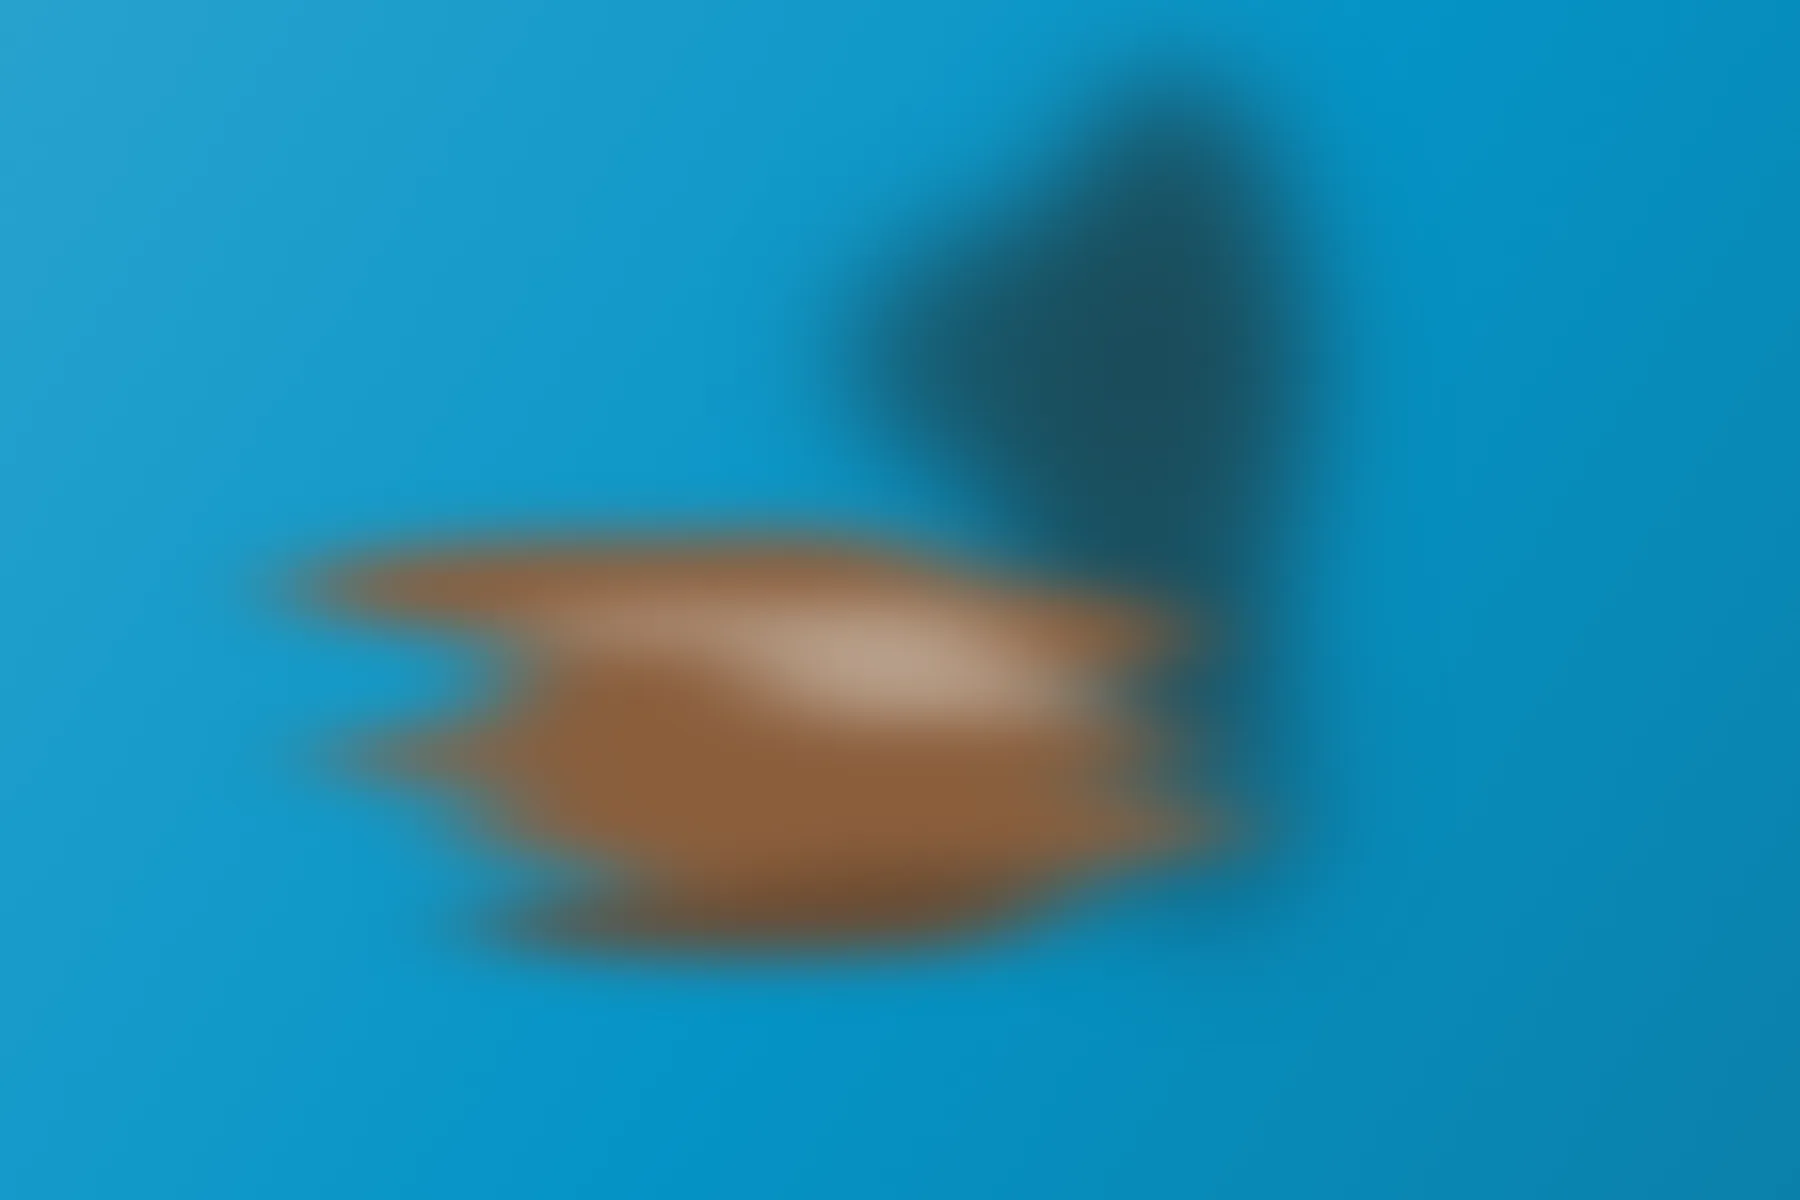
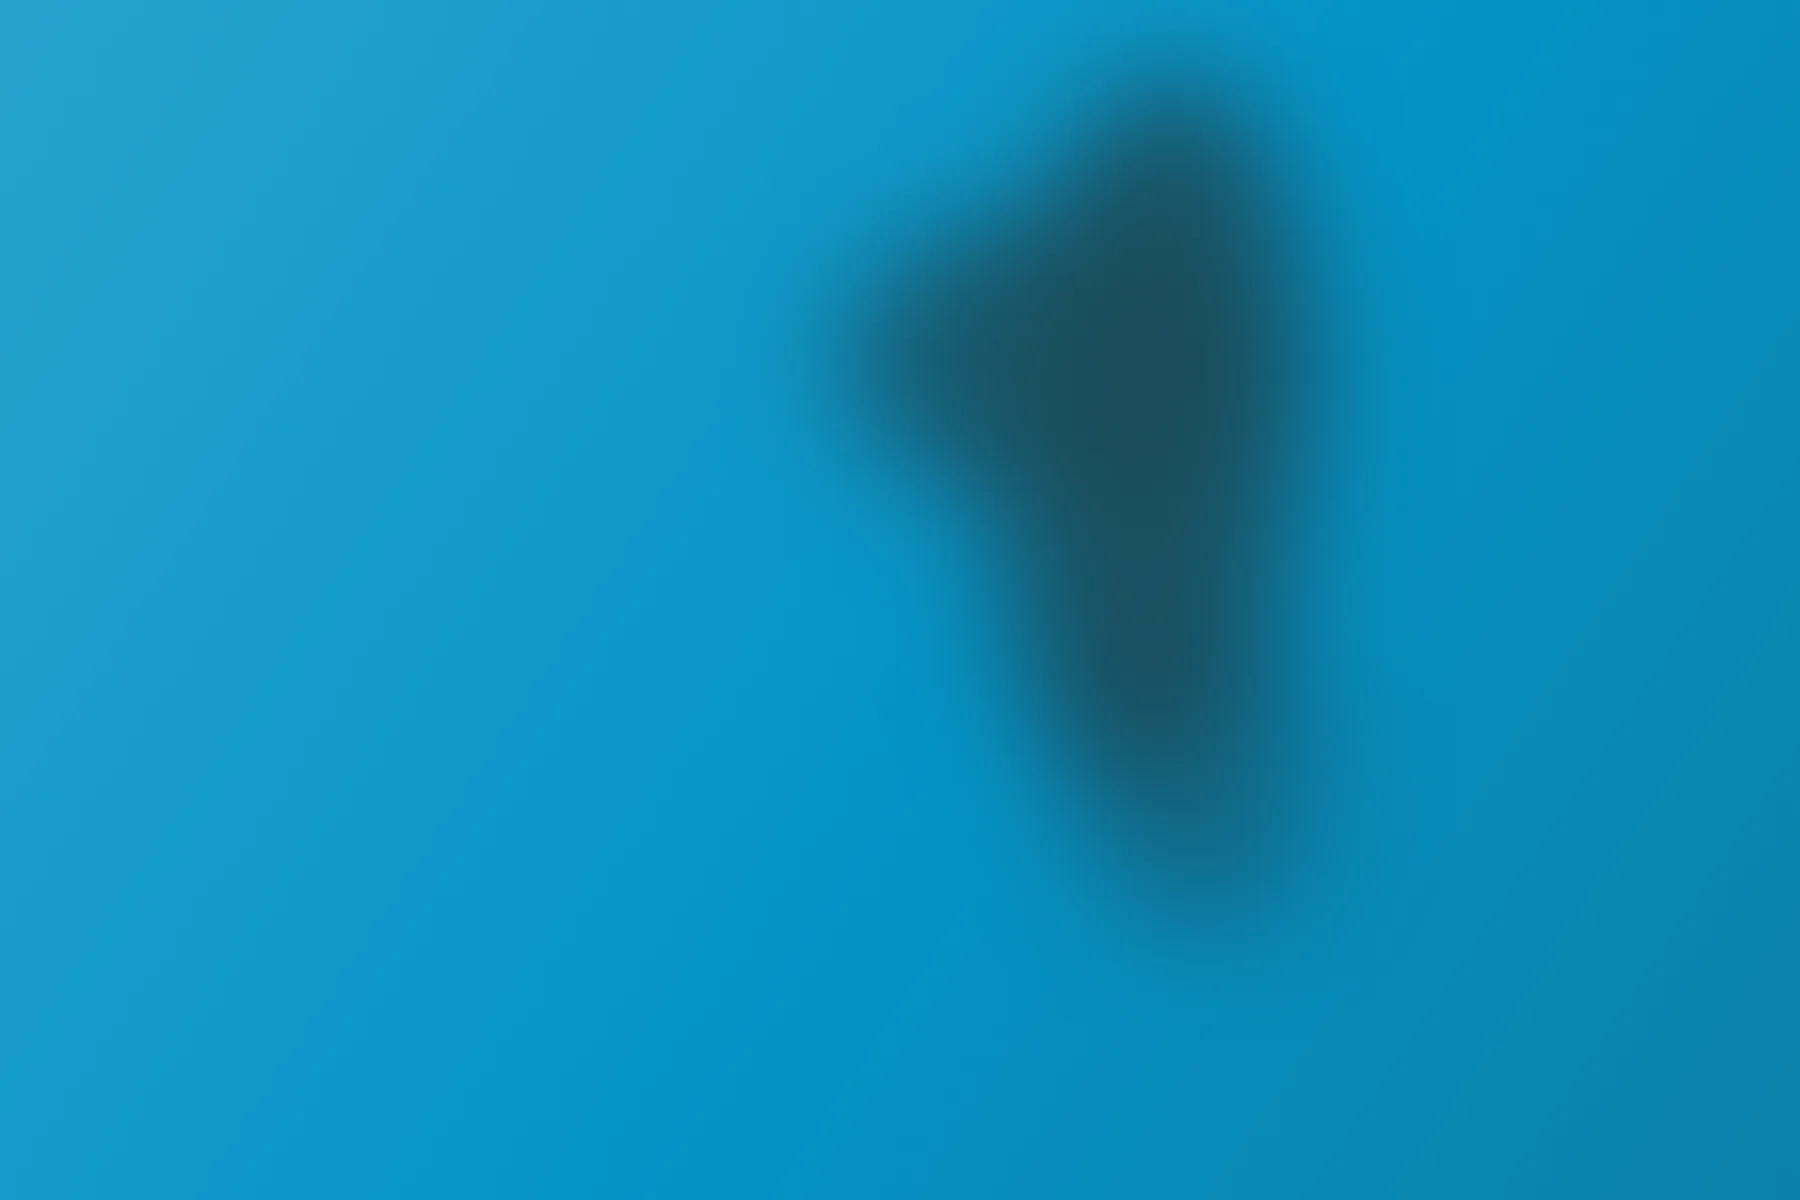
Touch fixes, "I'm Jack." hero, and a breathing backdrop
- Venture cards on touch (hover: none): description and detail both
  show, the detail in the accent; no sticky hover lift; the tap press is
  a quick 60ms sink (released at the normal 200ms). Desktop hover swap
  unchanged.
- Floating nav links are 44px tall tap targets.
- Tap feedback site-wide: no grey tap flash; links and buttons dim while
  pressed; an empty touchstart listener so iOS Safari applies :active.
- Reveals trigger when a chapter's top is 12% into the viewport
  (rootMargin), which also works for chapters taller than the screen,
  where a 12% ratio threshold could never be reached.
- Homepage: the hero reads "I'm Jack." (site.greeting) and the masthead
  drops the name there; other pages keep it.
- Backdrop split into a still base and the wood-brown mass, which slowly
  grows and shrinks (scale 0.86 to 1.14, 9s, GPU only: no repaints).
  Still under Reduce Motion.

Claude-Session: https://claude.ai/code/session_01LkBRp1ZorhmmMWd9eKdZJs

Changed region(s): [[0.1244, 0.4008, 0.7156, 0.8325]]

diff --git a/app/globals.css b/app/globals.css
@@ -54,6 +54,14 @@
     background-color: rgb(42 31 22 / 0.22);
   }
 
+  /* Taps: no grey flash from the browser; instead every link and button answers with a brief dim. */
+  :where(a, button, select, summary, label, input) {
+    -webkit-tap-highlight-color: transparent;
+  }
+  :where(a, button):active {
+    opacity: 0.7;
+  }
+
   /* White on the sky, ink on white surfaces. */
   :focus-visible {
     outline: 2px solid currentColor;
@@ -71,10 +79,12 @@
   }
 
   /*
-   * The backdrop, fixed behind everything: a blurred, motion-smeared wood-brown shape and a dark
-   * figure on the sky (public/backdrop.webp), seen through reeded glass. The flutes are CSS so they
-   * stay crisp at any pixel density: each 14px flute lit on its left edge and shaded on its right.
-   * Sized to the large viewport so mobile browser bars never make it jump.
+   * The backdrop, fixed behind everything, in three layers:
+   *   the still sky and dark figure (public/backdrop.webp),
+   *   the wood-brown mass, slowly growing and shrinking (public/backdrop-warm.webp),
+   *   reeded glass over both: 14px flutes, lit on the left edge, shaded on the right (CSS, crisp at any density).
+   * Sized to the large viewport so mobile browser bars never make it jump. The breathing animates
+   * only the `scale` of its own layer, which browsers run on the GPU without repainting the page.
    */
   .backdrop {
     position: fixed;
@@ -83,24 +93,35 @@
     z-index: -1;
     width: 100%;
     height: 100lvh;
+    overflow: hidden;
     pointer-events: none;
-    background-color: var(--color-sky);
-    background-image:
-      repeating-linear-gradient(
-        90deg,
-        rgb(252 255 255 / 0.1) 0px,
-        rgb(252 255 255 / 0.03) 3px,
-        rgb(252 255 255 / 0) 7px,
-        rgb(42 31 22 / 0.06) 12px,
-        rgb(252 255 255 / 0.1) 14px
-      ),
-      url("/backdrop.webp");
-    background-position:
-      0 0,
-      center;
-    background-size:
-      auto,
-      cover;
+    background: var(--color-sky) url("/backdrop.webp") center / cover no-repeat;
+  }
+  /* Sized exactly like the base image's cover box (3:2), so its origin sits on the mass's centre on any screen. */
+  .backdrop::before {
+    content: "";
+    position: absolute;
+    top: 50%;
+    left: 50%;
+    width: max(100%, 150lvh);
+    height: max(100%, 66.667vw);
+    translate: -50% -50%;
+    background: url("/backdrop-warm.webp") center / 100% 100% no-repeat;
+    transform-origin: 44% 61%;
+    animation: breathe 9s ease-in-out infinite alternate;
+  }
+  .backdrop::after {
+    content: "";
+    position: absolute;
+    inset: 0;
+    background-image: repeating-linear-gradient(
+      90deg,
+      rgb(252 255 255 / 0.1) 0px,
+      rgb(252 255 255 / 0.03) 3px,
+      rgb(252 255 255 / 0) 7px,
+      rgb(42 31 22 / 0.06) 12px,
+      rgb(252 255 255 / 0.1) 14px
+    );
   }
 
   /* The footer logo's tile: sky deepening to the lower right, under reeded glass (see app/icon.svg). */
@@ -128,6 +149,10 @@
   .logo-tile:hover {
     transform: translateY(-2px);
   }
+  .logo-tile:active {
+    transform: scale(0.96);
+    transition-duration: 60ms;
+  }
 
   /* A venture's card: white on the sky, the whole card is the link. */
   .plate {
@@ -152,8 +177,14 @@
       0 2px 4px rgb(42 31 22 / 0.12),
       0 22px 40px -18px rgb(42 31 22 / 0.6);
   }
+  /* Pressed: the card sinks quickly (a tap is ~100ms), then eases back at the normal speed. */
   .plate:active {
-    transform: translateY(0);
+    opacity: 1;
+    transform: scale(0.98);
+    transition-duration: 60ms;
+    box-shadow:
+      0 1px 2px rgb(42 31 22 / 0.12),
+      0 8px 18px -12px rgb(42 31 22 / 0.5);
   }
   /* Printed onto the card rather than pasted on it. */
   .plate-logo {
@@ -192,6 +223,38 @@
   }
   .plate:is(:hover, :focus-visible) .plate-arrow {
     transform: translateX(3px);
+  }
+
+  /*
+   * Touch screens have no hover, so the swap would never happen there: show both lines,
+   * the description and beneath it the detail in the accent, and drop the hover lift
+   * (a tap would otherwise leave the card stuck lifted). The tap press stays.
+   */
+  @media (hover: none) {
+    .plate-lines > * {
+      grid-area: auto;
+    }
+    .plate-description,
+    .plate:hover .plate-description,
+    .plate-detail,
+    .plate:hover .plate-detail {
+      opacity: 1;
+      transform: none;
+    }
+    .plate-detail {
+      margin-top: 0.5rem;
+      color: var(--color-accent);
+    }
+    .plate:hover:not(:active) {
+      transform: none;
+      box-shadow:
+        0 1px 2px rgb(42 31 22 / 0.12),
+        0 14px 30px -16px rgb(42 31 22 / 0.5);
+    }
+    .plate:hover .plate-logo,
+    .plate:hover .plate-arrow {
+      transform: none;
+    }
   }
 
   /* Chapters ease in as they scroll into view (components/Reveal.tsx). Hidden only once app/layout.tsx marks the page ready. */
@@ -485,6 +548,15 @@
   }
 }
 
+@keyframes breathe {
+  from {
+    scale: 0.86;
+  }
+  to {
+    scale: 1.14;
+  }
+}
+
 @keyframes bob {
   0%,
   100% {
@@ -505,8 +577,13 @@
     transform: none;
     transition: none;
   }
-  .bob {
+  .bob,
+  .backdrop::before {
     animation: none;
+  }
+  /* No sinking card; a slight dim still answers the tap. */
+  .plate:active {
+    opacity: 0.85;
   }
   .logo-tile,
   .plate,
@@ -516,8 +593,8 @@
   .draw {
     transition: none;
   }
-  .logo-tile:hover,
-  .plate:is(:hover, :focus-visible),
+  .logo-tile:is(:hover, :active),
+  .plate:is(:hover, :focus-visible, :active),
   .plate:is(:hover, :focus-visible) .plate-logo,
   .plate:is(:hover, :focus-visible) .plate-arrow,
   .plate-lines > * {

diff --git a/app/layout.tsx b/app/layout.tsx
@@ -43,8 +43,9 @@ export const viewport: Viewport = {
  * when this marks the page ready: IntersectionObserver exists and the reader
  * hasn't asked for reduced motion. If the reveal code never starts (a script
  * failed to load), the mark is removed after 5s so nothing stays hidden.
+ * Also: an empty touch listener, without which iOS Safari never shows :active (tap feedback).
  */
-const revealScript = `(function(){try{var d=document.documentElement;if(!("IntersectionObserver" in window)||matchMedia("(prefers-reduced-motion: reduce)").matches)return;d.setAttribute("data-reveal","ready");setTimeout(function(){if(document.querySelector(".reveal")&&!("revealLive" in d.dataset))d.removeAttribute("data-reveal")},5000)}catch(e){}})()`;
+const revealScript = `(function(){try{document.addEventListener("touchstart",function(){},{passive:true});var d=document.documentElement;if(!("IntersectionObserver" in window)||matchMedia("(prefers-reduced-motion: reduce)").matches)return;d.setAttribute("data-reveal","ready");setTimeout(function(){if(document.querySelector(".reveal")&&!("revealLive" in d.dataset))d.removeAttribute("data-reveal")},5000)}catch(e){}})()`;
 
 export default function RootLayout({ children }: LayoutProps<"/">) {
   return (

diff --git a/components/FloatingNav.tsx b/components/FloatingNav.tsx
@@ -55,7 +55,7 @@ export default function FloatingNav() {
           {preview ?? " "}
         </p>
         <ul
-          className="smallcaps flex items-center rounded-full bg-white/90 px-2 py-1.5 shadow-[0_10px_30px_-12px_rgb(42_31_22/0.45)] backdrop-blur"
+          className="smallcaps flex items-center rounded-full bg-white/90 px-2 py-0.5 shadow-[0_10px_30px_-12px_rgb(42_31_22/0.45)] backdrop-blur"
           onMouseLeave={() => setPreview(null)}
         >
           {items.map((item, index) => {
@@ -73,7 +73,7 @@ export default function FloatingNav() {
                   onMouseEnter={() => setPreview(item.preview)}
                   onFocus={() => setPreview(item.preview)}
                   onBlur={() => setPreview(null)}
-                  className={`block rounded-full px-3 py-1 transition-colors ${current ? "text-accent" : "text-muted hover:text-ink"}`}
+                  className={`flex min-h-[44px] items-center rounded-full px-3 transition-colors ${current ? "text-accent" : "text-muted hover:text-ink"}`}
                 >
                   {item.label}
                 </Link>

diff --git a/components/EditButton.tsx b/components/EditButton.tsx
@@ -31,7 +31,7 @@ export default function EditButton({ slug }: { slug?: string }) {
         type="button"
         onClick={open}
         aria-label={slug ? "Edit this essay" : "Write a new essay"}
-        className="fixed right-4 bottom-24 z-20 flex size-12 cursor-pointer items-center justify-center rounded-full bg-white text-[1.75rem] leading-none text-ink shadow-[0_10px_30px_-12px_rgb(42_31_22/0.55)] transition-transform hover:scale-105 sm:right-6 sm:bottom-6 motion-reduce:transition-none"
+        className="fixed right-4 bottom-24 z-20 flex size-12 cursor-pointer items-center justify-center rounded-full bg-white text-[1.75rem] leading-none text-ink shadow-[0_10px_30px_-12px_rgb(42_31_22/0.55)] transition-transform hover:scale-105 active:scale-95 sm:right-6 sm:bottom-6 motion-reduce:transition-none"
       >
         <span aria-hidden="true" className="-mt-0.5">
           +

diff --git a/components/Reveal.tsx b/components/Reveal.tsx
@@ -33,6 +33,9 @@ export default function Reveal({
       element.classList.add("is-visible");
       return;
     }
+    // Reveal once the chapter's top is 12% into the viewport. A ratio threshold (12% of the
+    // chapter visible) can never be met by a chapter taller than about eight screens, which
+    // a long chapter on a small phone can be; a margin on the viewport works at any height.
     const observer = new IntersectionObserver(
       (entries) => {
         if (entries.some((entry) => entry.isIntersecting)) {
@@ -40,7 +43,7 @@ export default function Reveal({
           observer.disconnect();
         }
       },
-      { threshold: 0.12 },
+      { rootMargin: "0px 0px -12% 0px" },
     );
     observer.observe(element);
     return () => observer.disconnect();

diff --git a/components/Header.tsx b/components/Header.tsx
@@ -1,15 +1,13 @@
 import Link from "next/link";
-import { site } from "@/lib/config";
+import MastheadName from "./MastheadName";
 import { nav } from "@/lib/nav";
 
 /** The masthead: name, then the contents. The floating nav takes over once it scrolls away. */
 export default function Header() {
   return (
     <header className="pt-12 pb-16 text-center sm:pt-16 sm:pb-24">
-      <Link href="/" className="font-display text-[1.875rem] tracking-[0.02em] sm:text-[2.25rem]">
-        {site.name}
-      </Link>
-      <nav aria-label="Primary" className="mt-3">
+      <MastheadName />
+      <nav aria-label="Primary">
         <ul className="smallcaps flex items-baseline justify-center">
           {nav.map((item, index) => (
             <li key={item.href}>

diff --git a/lib/config.ts b/lib/config.ts
@@ -31,7 +31,10 @@ export const site = {
   /** Where the in-site editor commits essays (see README.md, "Writing from the site"). */
   repository: { owner: "jdeliason07", name: "jackeliason", branch: "main" },
 
-  /** The homepage's title-page line under the name, one entry per line. */
+  /** The homepage's headline. Your name stays in the page title, metadata, and every other page's masthead. */
+  greeting: "I’m Jack.",
+
+  /** The homepage's title-page line under the greeting, one entry per line. */
   tagline: ["Founder of Korvo and Race Against Cancers.", "Co-founder of vates."],
 
   // TODO: Replace with the default description used by search engines and link previews.

diff --git a/app/page.tsx b/app/page.tsx
@@ -34,7 +34,7 @@ export default function Home() {
 
       {/* The title page. Not a Reveal: it is the first thing painted, so it never waits on JavaScript. */}
       <section className="text-center">
-        <h1 className="font-display text-[clamp(3.5rem,16vw,7rem)] leading-[0.95] text-balance">{site.name}</h1>
+        <h1 className="font-display text-[clamp(3.5rem,16vw,7rem)] leading-[0.95] text-balance">{site.greeting}</h1>
         <p className="mt-6 text-[1.1875rem] leading-relaxed text-pretty text-white/80 italic sm:text-[1.3125rem]">
           {site.tagline.map((line) => (
             <span key={line} className="block">

diff --git a/components/MastheadName.tsx b/components/MastheadName.tsx
@@ -1,0 +1,15 @@
+"use client";
+
+import Link from "next/link";
+import { usePathname } from "next/navigation";
+import { site } from "@/lib/config";
+
+/** The masthead's name, linking home. Left off the homepage, whose headline already says who this is. */
+export default function MastheadName() {
+  if (usePathname() === "/") return null;
+  return (
+    <Link href="/" className="mb-3 inline-block font-display text-[1.875rem] tracking-[0.02em] sm:text-[2.25rem]">
+      {site.name}
+    </Link>
+  );
+}
